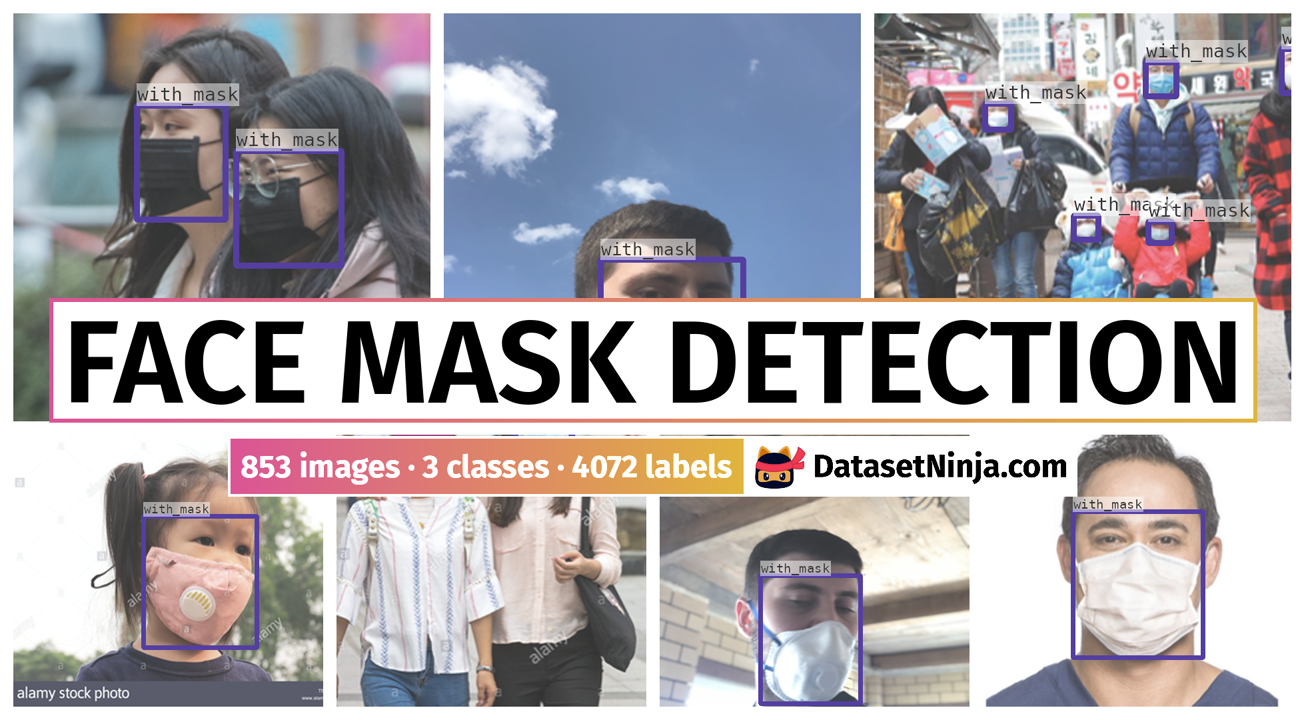
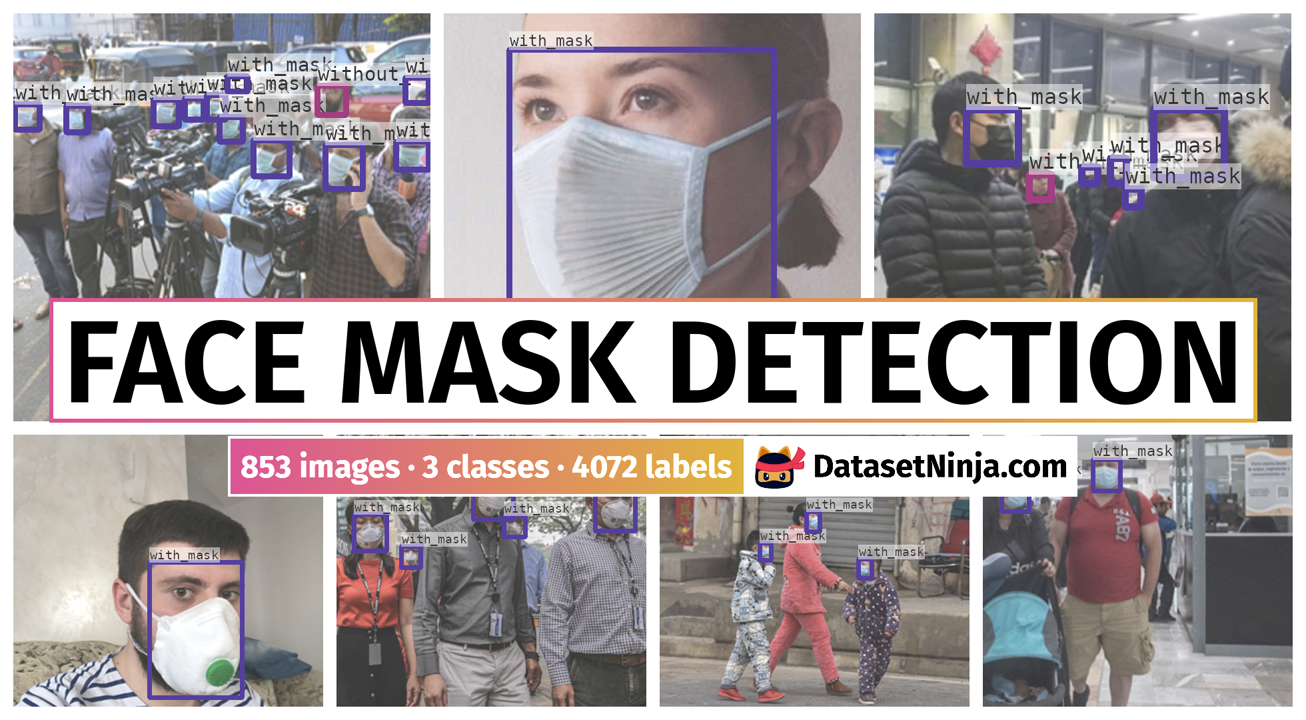
upd custom data

diff --git a/src/settings.py b/src/settings.py
@@ -1,6 +1,14 @@
 from typing import Dict, List, Optional, Union
 
-from dataset_tools.templates import AnnotationType, CVTask, Industry, License
+from dataset_tools.templates import (
+    AnnotationType,
+    Category,
+    CVTask,
+    Domain,
+    Industry,
+    License,
+    Research,
+)
 
 ##################################
 # * Before uploading to instance #
@@ -12,11 +20,16 @@ PROJECT_NAME_FULL: str = "Face Mask Detection"
 # * After uploading to instance ##
 ##################################
 LICENSE: License = License.CC0_1_0()
-INDUSTRIES: List[Industry] = [Industry.GeneralDomain()]
+APPLICATIONS: List[Union[Industry, Domain, Research]] = [Industry.Safety(is_used=False)]
+CATEGORY: Category = Category.Safety()
+
 CV_TASKS: List[CVTask] = [CVTask.ObjectDetection()]
 ANNOTATION_TYPES: List[AnnotationType] = [AnnotationType.ObjectDetection()]
 
-RELEASE_YEAR: int = 2020
+RELEASE_DATE: Optional[str] = None  # e.g. "YYYY-MM-DD"
+if RELEASE_DATE is None:
+    RELEASE_YEAR: int = 2020
+
 HOMEPAGE_URL: str = "https://www.kaggle.com/datasets/andrewmvd/face-mask-detection"
 # e.g. "https://some.com/dataset/homepage"
 
@@ -39,8 +52,12 @@ CLASS2COLOR: Optional[Dict[str, List[str]]] = None
 
 PAPER: Optional[str] = None
 CITATION_URL: Optional[str] = None
+AUTHORS: Optional[List[str]] = ["Andrew Maranhão"]
+
 ORGANIZATION_NAME: Optional[Union[str, List[str]]] = None
 ORGANIZATION_URL: Optional[Union[str, List[str]]] = None
+
+SLYTAGSPLIT: Optional[Dict[str, List[str]]] = None
 TAGS: List[str] = None
 
 ##################################
@@ -55,10 +72,15 @@ def check_names():
 
 
 def get_settings():
+    if RELEASE_DATE is not None:
+        global RELEASE_YEAR
+        RELEASE_YEAR = int(RELEASE_DATE.split("-")[0])
+
     settings = {
         "project_name": PROJECT_NAME,
         "license": LICENSE,
-        "industries": INDUSTRIES,
+        "applications": APPLICATIONS,
+        "category": CATEGORY,
         "cv_tasks": CV_TASKS,
         "annotation_types": ANNOTATION_TYPES,
         "release_year": RELEASE_YEAR,
@@ -70,13 +92,16 @@ def get_settings():
     if any([field is None for field in settings.values()]):
         raise ValueError("Please fill all fields in settings.py after uploading to instance.")
 
+    settings["release_date"] = RELEASE_DATE
     settings["project_name_full"] = PROJECT_NAME_FULL or PROJECT_NAME
     settings["download_original_url"] = DOWNLOAD_ORIGINAL_URL
     settings["class2color"] = CLASS2COLOR
     settings["paper"] = PAPER
     settings["citation_url"] = CITATION_URL
+    settings["authors"] = AUTHORS
     settings["organization_name"] = ORGANIZATION_NAME
     settings["organization_url"] = ORGANIZATION_URL
-    settings["tags"] = TAGS if TAGS is not None else []
+    settings["slytagsplit"] = SLYTAGSPLIT
+    settings["tags"] = TAGS
 
     return settings

diff --git a/src/options.py b/src/options.py
@@ -5,7 +5,7 @@
 # * Preview class to visualize in SUMMARY.md overview section
 # * Literal["ClassesPreview", "HorizontalGrid", "SideAnnotationsGrid", "Poster"]
 # * If None, then preview_class will be set automatically to "ClassesPreview"
-PREVIEW_CLASS = None
+PREVIEW_CLASS = "Poster"
 
 IS_DETECTION_TASK: bool = True  # ? Set True if you want to visualize only bbox annotations
 
@@ -64,14 +64,16 @@ HEATMAP_ROWS: int = None
 HEATMAP_COLS: int = None
 HEATMAP_GRID_SPACING: int = None
 HEATMAP_OUTER_GRID_SPACING: int = None
-HEATMAP_OUTPUT_WIDTH: int = None # 1 class in dataset? -> 1600px for portrait images, 2200px for landscape
+HEATMAP_OUTPUT_WIDTH: int = (
+    None  # 1 class in dataset? -> 1600px for portrait images, 2200px for landscape
+)
 ###############################################################
-
 
 
 ##################################
 ###### ? Do not edit bellow #####
 ##################################
+
 
 def get_visualization_options():
     vis_settings = {
@@ -93,7 +95,7 @@ def get_visualization_options():
             "rows": SIDE_ANNOTATIONS_GRID_ROWS,
             "cols": SIDE_ANNOTATIONS_GRID_COLS,
             "is_detection_task": SIDE_ANNOTATIONS_GRID_IS_DETECTION_TASK,
-        }
+        },
     }
 
     checked_vis_settings = {}

diff --git a/SUMMARY.md b/SUMMARY.md
@@ -1,9 +1,7 @@
-**Face Mask Detection** is a dataset for object detection tasks. It is applicable or relevant across various domains.
+**Face Mask Detection** is a dataset for object detection task. Possible applications of the dataset could be in the safety industry. 
 
-The dataset consists of 853 images with 4072 labeled objects belonging to 3 different classes including _with_mask_, _without_mask_, and _mask_weared_incorrect_.
+The dataset consists of 853 images with 4072 labeled objects belonging to 3 different classes including *with_mask*, *without_mask*, and *mask_weared_incorrect*.
 
-Images in the Face Mask Detection dataset have bounding box annotations. All images are labeled (i.e. with annotations). There is 1 split in the dataset: _ds_ (853 images). The dataset was released in 2020.
+Images in the Face Mask Detection dataset have bounding box annotations. All images are labeled (i.e. with annotations). There are no pre-defined <i>train/val/test</i> splits in the dataset. The dataset was released in 2020.
 
-Here are the visualized examples for each of the 3 classes:
-
-[Dataset classes](https://github.com/dataset-ninja/face-mask-detection/raw/main/visualizations/horizontal_grid.webm)
+<img src="https://github.com/dataset-ninja/face-mask-detection/raw/main/visualizations/poster.png">
